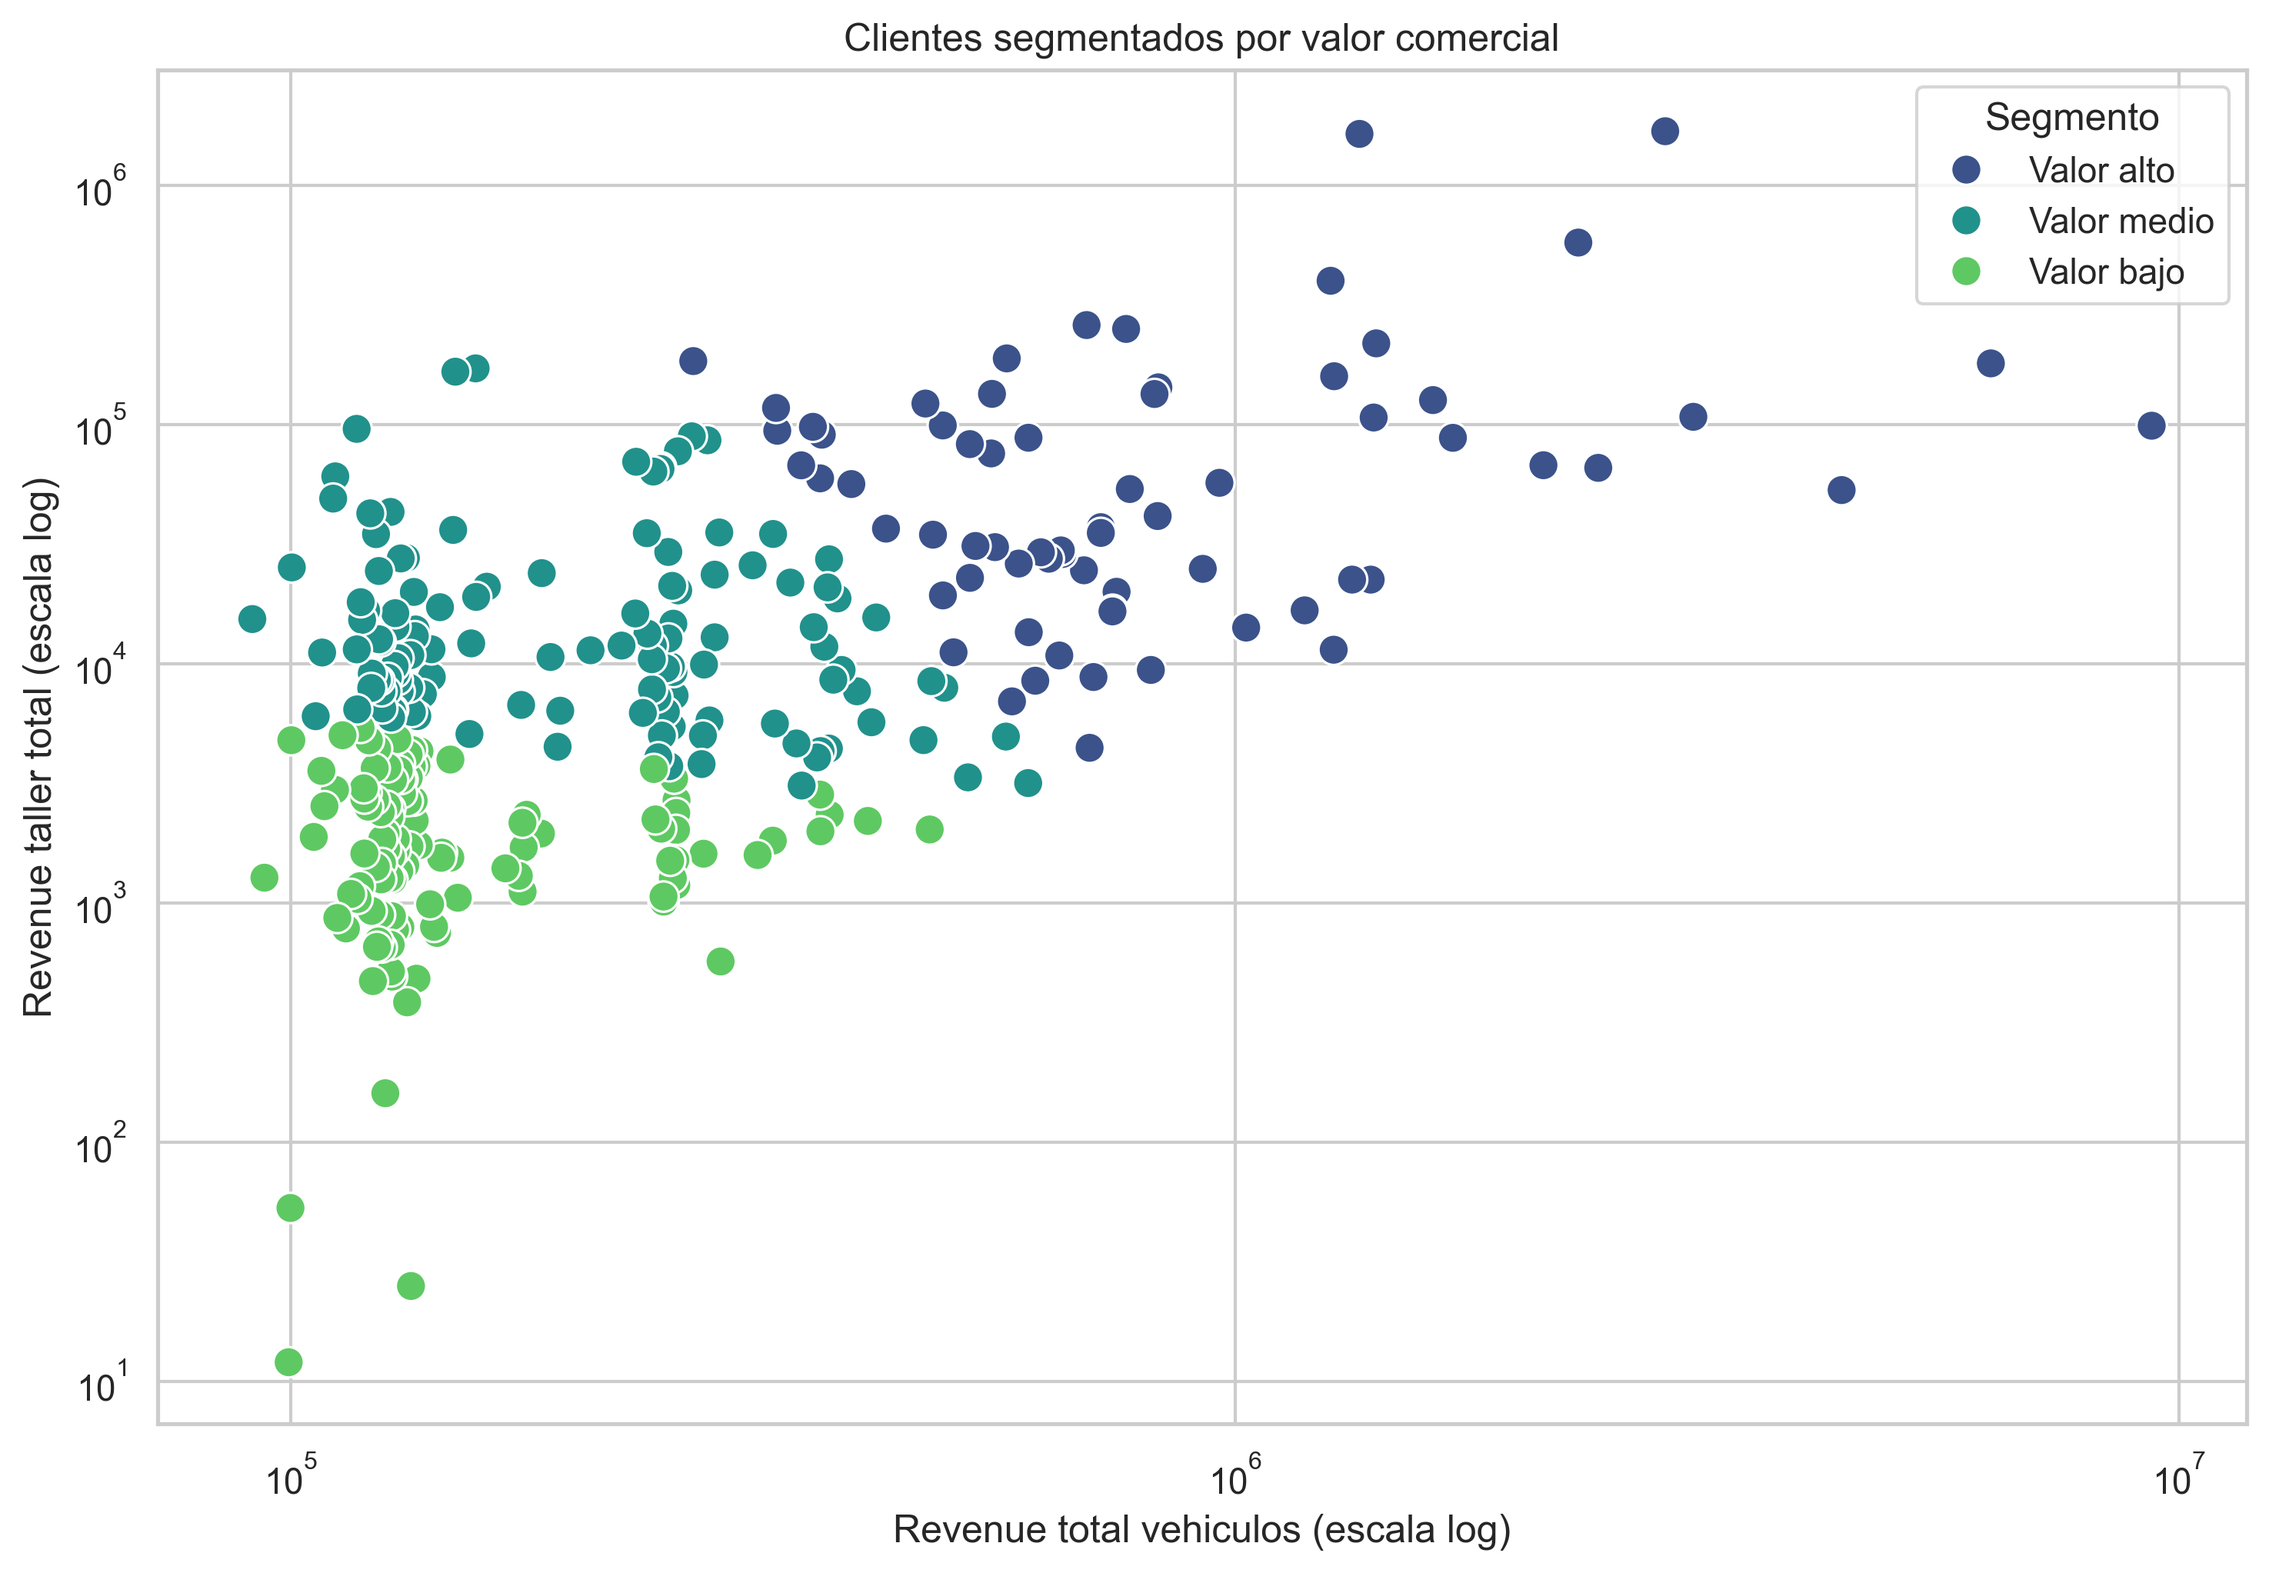
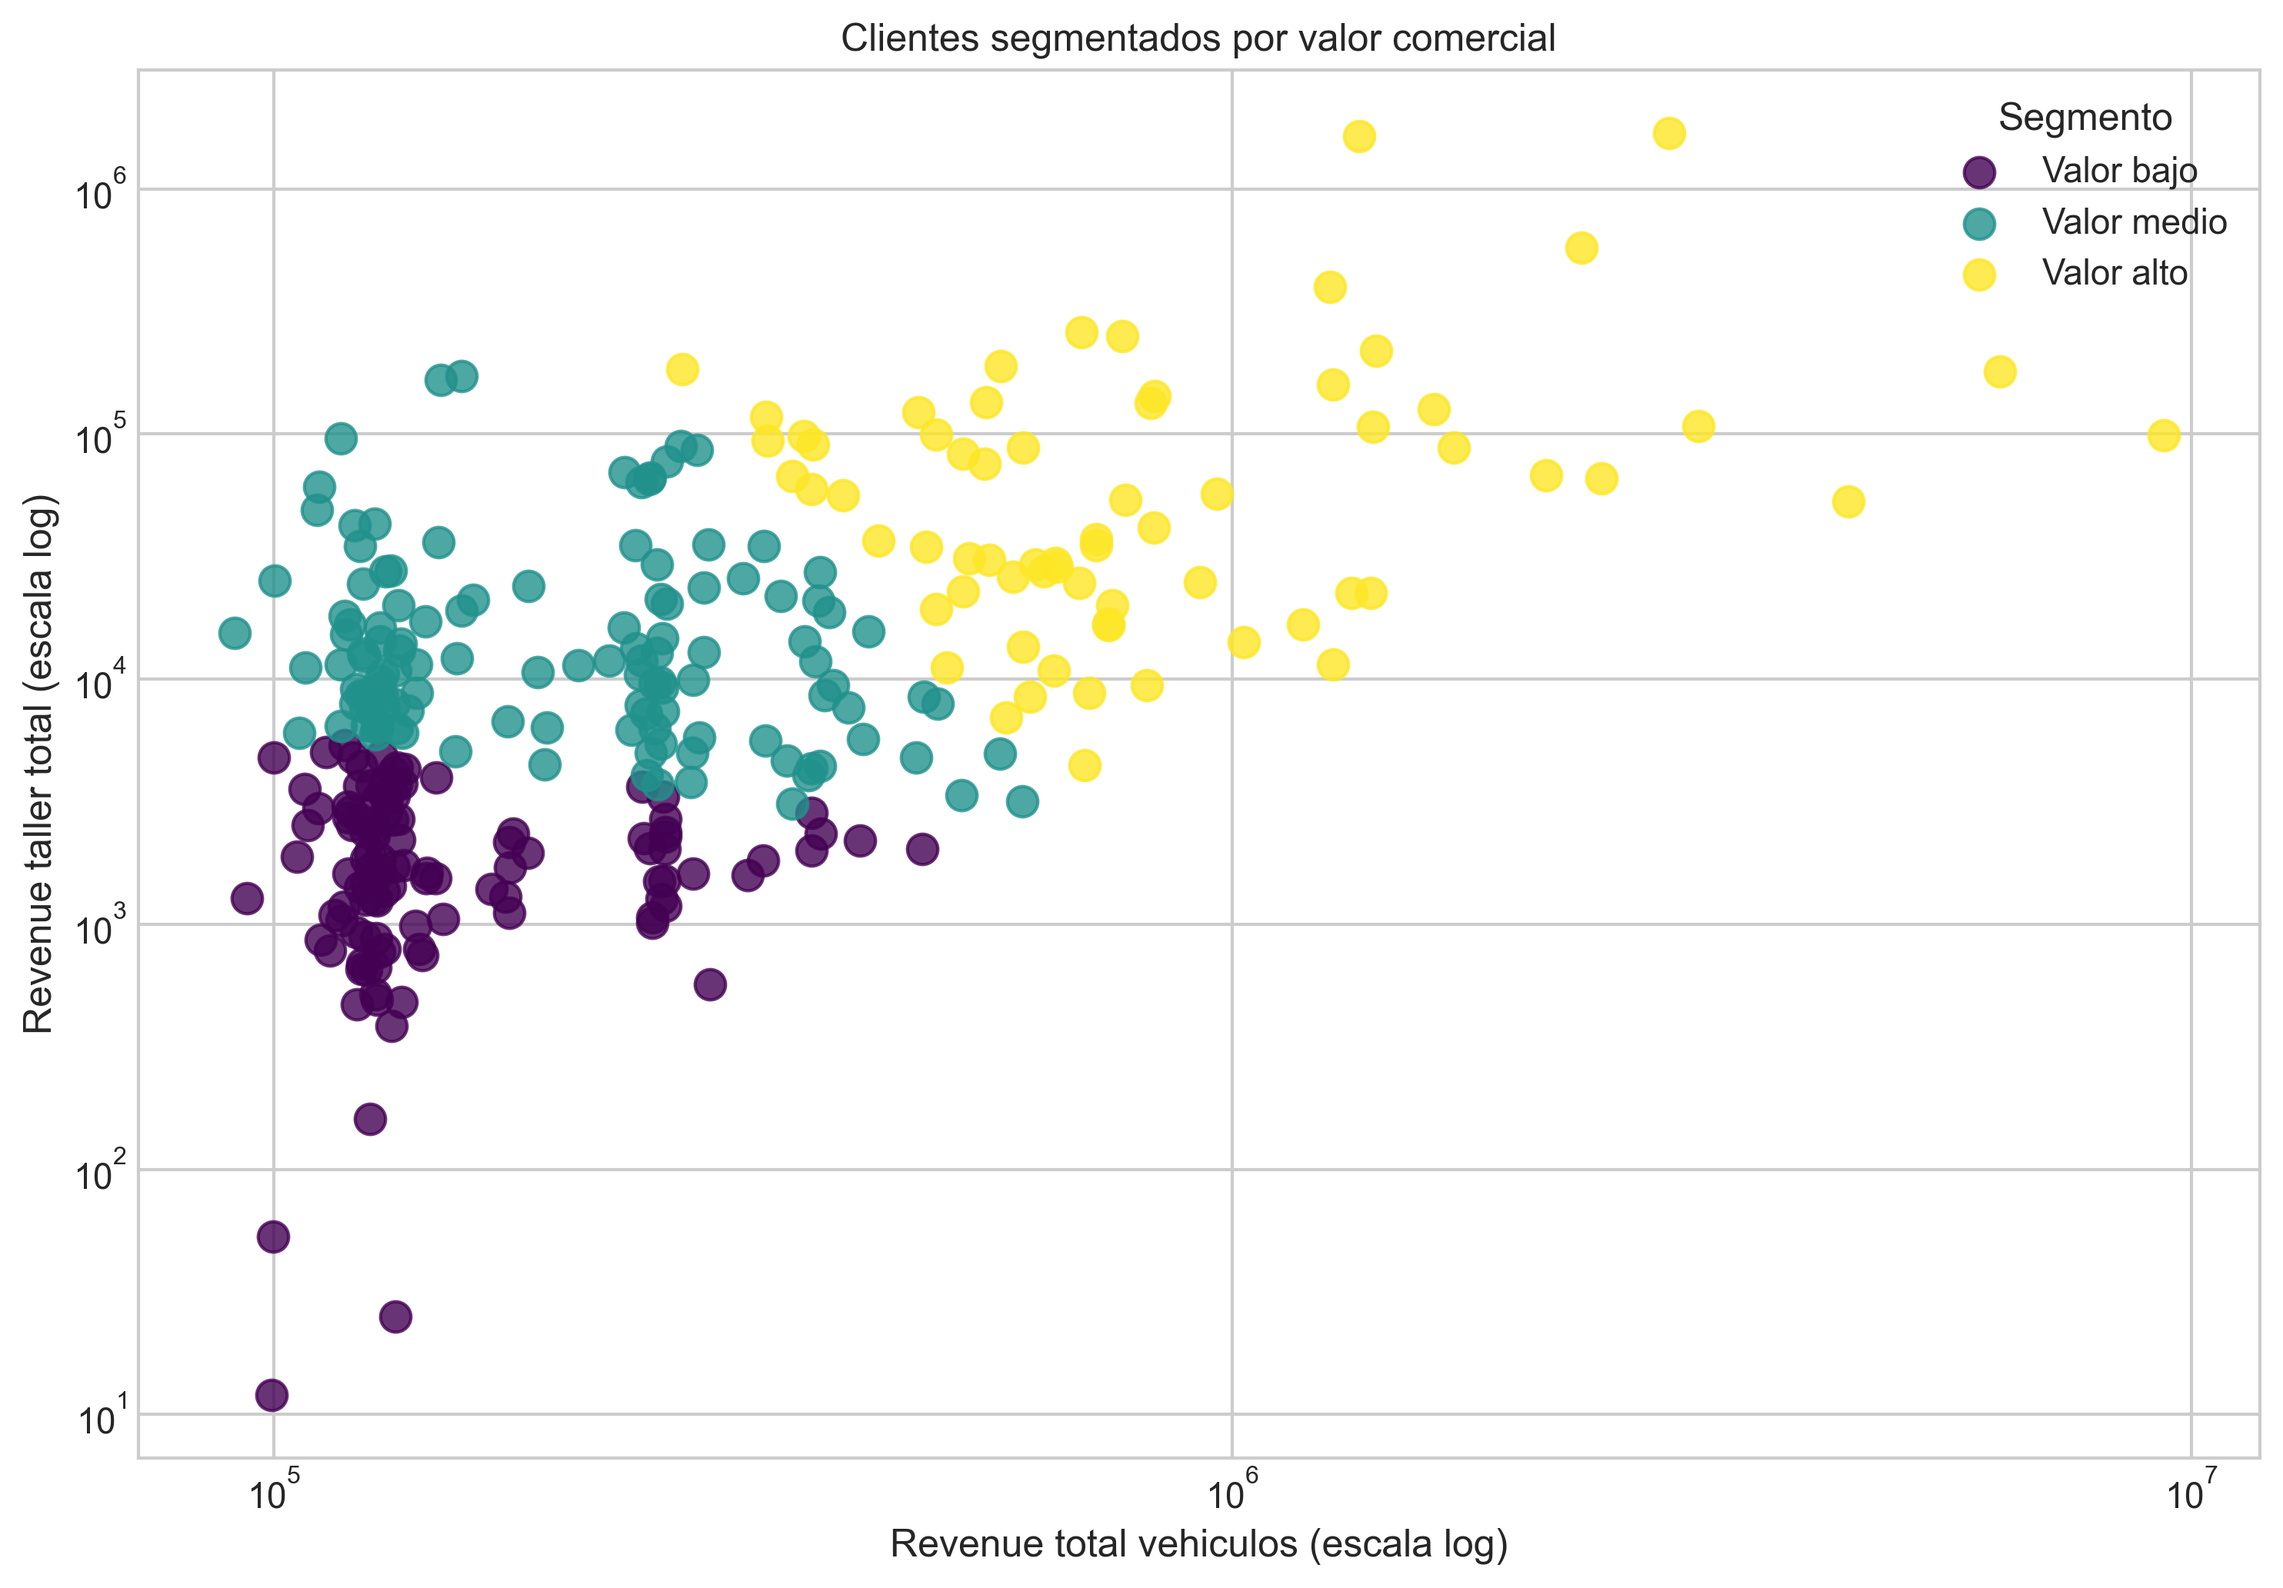
Actualiza trabajo de clustering

diff --git a/MACHINE_LEARNING/TRABAJOS/TRABAJO_1/Trabajo_1_Clustering.py b/MACHINE_LEARNING/TRABAJOS/TRABAJO_1/Trabajo_1_Clustering.py
@@ -24,11 +24,15 @@ import os
 from pathlib import Path
 
 import matplotlib
-matplotlib.use("Agg")
+MOSTRAR_GRAFICOS = any(
+    variable in os.environ
+    for variable in ["SPYDER_ARGS", "SPY_RUN_CYTHON", "JPY_PARENT_PID"]
+)
+if not MOSTRAR_GRAFICOS:
+    matplotlib.use("Agg")
 import matplotlib.pyplot as plt
 import numpy as np
 import pandas as pd
-import seaborn as sns
 from scipy.optimize import linear_sum_assignment
 from sklearn.cluster import KMeans
 from sklearn.metrics import confusion_matrix, mean_squared_error, silhouette_score
@@ -42,7 +46,7 @@ os.environ["LOKY_MAX_CPU_COUNT"] = "4"
 np.set_printoptions(precision=4, suppress=True)
 pd.set_option("display.max_columns", None)
 pd.set_option("display.width", 120)
-sns.set_theme(style="whitegrid")
+plt.style.use("seaborn-v0_8-whitegrid")
 
 
 #%%
@@ -329,18 +333,25 @@ axes[1].set_ylabel("Silhouette score")
 axes[1].legend()
 plt.tight_layout()
 plt.savefig(OUTPUT_DIR / "01_elbow_silhouette.png", dpi=300, bbox_inches="tight")
+if MOSTRAR_GRAFICOS:
+    plt.show()
 plt.close()
 
 # Grafico 2: dispersion de clientes por ingresos de vehiculos y taller.
 plt.figure(figsize=(10, 7))
-sns.scatterplot(
-    data=df_modelo,
-    x="REVENUE_TOTAL_VEHICULOS",
-    y="REVENUE_TALLER_TOTAL",
-    hue="Segmento",
-    palette="viridis",
-    s=90,
-)
+colores_segmento = {"Valor bajo": "#440154", "Valor medio": "#21918c", "Valor alto": "#fde725"}
+
+for segmento, color in colores_segmento.items():
+    datos_segmento = df_modelo[df_modelo["Segmento"] == segmento]
+    plt.scatter(
+        datos_segmento["REVENUE_TOTAL_VEHICULOS"],
+        datos_segmento["REVENUE_TALLER_TOTAL"],
+        label=segmento,
+        color=color,
+        s=90,
+        alpha=0.8,
+    )
+
 plt.xscale("log")
 plt.yscale("log")
 plt.title("Clientes segmentados por valor comercial")
@@ -349,49 +360,68 @@ plt.ylabel("Revenue taller total (escala log)")
 plt.legend(title="Segmento")
 plt.tight_layout()
 plt.savefig(OUTPUT_DIR / "02_clientes_segmentados.png", dpi=300, bbox_inches="tight")
+if MOSTRAR_GRAFICOS:
+    plt.show()
 plt.close()
 
 # Grafico 3: boxplots para comparar la distribucion de ingresos por segmento.
 fig, axes = plt.subplots(1, 2, figsize=(14, 5))
-sns.boxplot(
-    data=df_modelo,
-    x="Segmento",
-    y="REVENUE_TOTAL_VEHICULOS",
-    hue="Segmento",
-    palette="viridis",
-    legend=False,
-    ax=axes[0],
+segmentos_ordenados = ["Valor bajo", "Valor medio", "Valor alto"]
+datos_box_vehiculos = [
+    df_modelo.loc[df_modelo["Segmento"] == segmento, "REVENUE_TOTAL_VEHICULOS"]
+    for segmento in segmentos_ordenados
+]
+box1 = axes[0].boxplot(
+    datos_box_vehiculos,
+    patch_artist=True,
+    tick_labels=segmentos_ordenados,
 )
+for patch, segmento in zip(box1["boxes"], segmentos_ordenados):
+    patch.set_facecolor(colores_segmento[segmento])
 axes[0].set_yscale("log")
 axes[0].set_title("Revenue vehiculos por segmento")
 axes[0].set_xlabel("Segmento")
 axes[0].set_ylabel("Revenue vehiculos (escala log)")
 
-sns.boxplot(
-    data=df_modelo,
-    x="Segmento",
-    y="REVENUE_TALLER_TOTAL",
-    hue="Segmento",
-    palette="viridis",
-    legend=False,
-    ax=axes[1],
+datos_box_taller = [
+    df_modelo.loc[df_modelo["Segmento"] == segmento, "REVENUE_TALLER_TOTAL"]
+    for segmento in segmentos_ordenados
+]
+box2 = axes[1].boxplot(
+    datos_box_taller,
+    patch_artist=True,
+    tick_labels=segmentos_ordenados,
 )
+for patch, segmento in zip(box2["boxes"], segmentos_ordenados):
+    patch.set_facecolor(colores_segmento[segmento])
 axes[1].set_yscale("log")
 axes[1].set_title("Revenue taller por segmento")
 axes[1].set_xlabel("Segmento")
 axes[1].set_ylabel("Revenue taller (escala log)")
 plt.tight_layout()
 plt.savefig(OUTPUT_DIR / "03_boxplots_segmentos.png", dpi=300, bbox_inches="tight")
+if MOSTRAR_GRAFICOS:
+    plt.show()
 plt.close()
 
 # Grafico 4: matriz de confusion para visualizar el ajuste en el conjunto de prueba.
-plt.figure(figsize=(7, 5))
-sns.heatmap(cm, annot=True, fmt="d", cmap="Blues", cbar=False)
-plt.title("Matriz de confusion de clusters alineados")
-plt.xlabel("Cluster predicho")
-plt.ylabel("Cluster real")
+fig, ax = plt.subplots(figsize=(7, 5))
+imagen = ax.imshow(cm, cmap="Blues")
+ax.set_title("Matriz de confusion de clusters alineados")
+ax.set_xlabel("Cluster predicho")
+ax.set_ylabel("Cluster real")
+ax.set_xticks(range(cm.shape[1]))
+ax.set_yticks(range(cm.shape[0]))
+
+for i in range(cm.shape[0]):
+    for j in range(cm.shape[1]):
+        ax.text(j, i, cm[i, j], ha="center", va="center", color="black")
+
+fig.colorbar(imagen, ax=ax)
 plt.tight_layout()
 plt.savefig(OUTPUT_DIR / "04_matriz_confusion.png", dpi=300, bbox_inches="tight")
+if MOSTRAR_GRAFICOS:
+    plt.show()
 plt.close()
 
 
